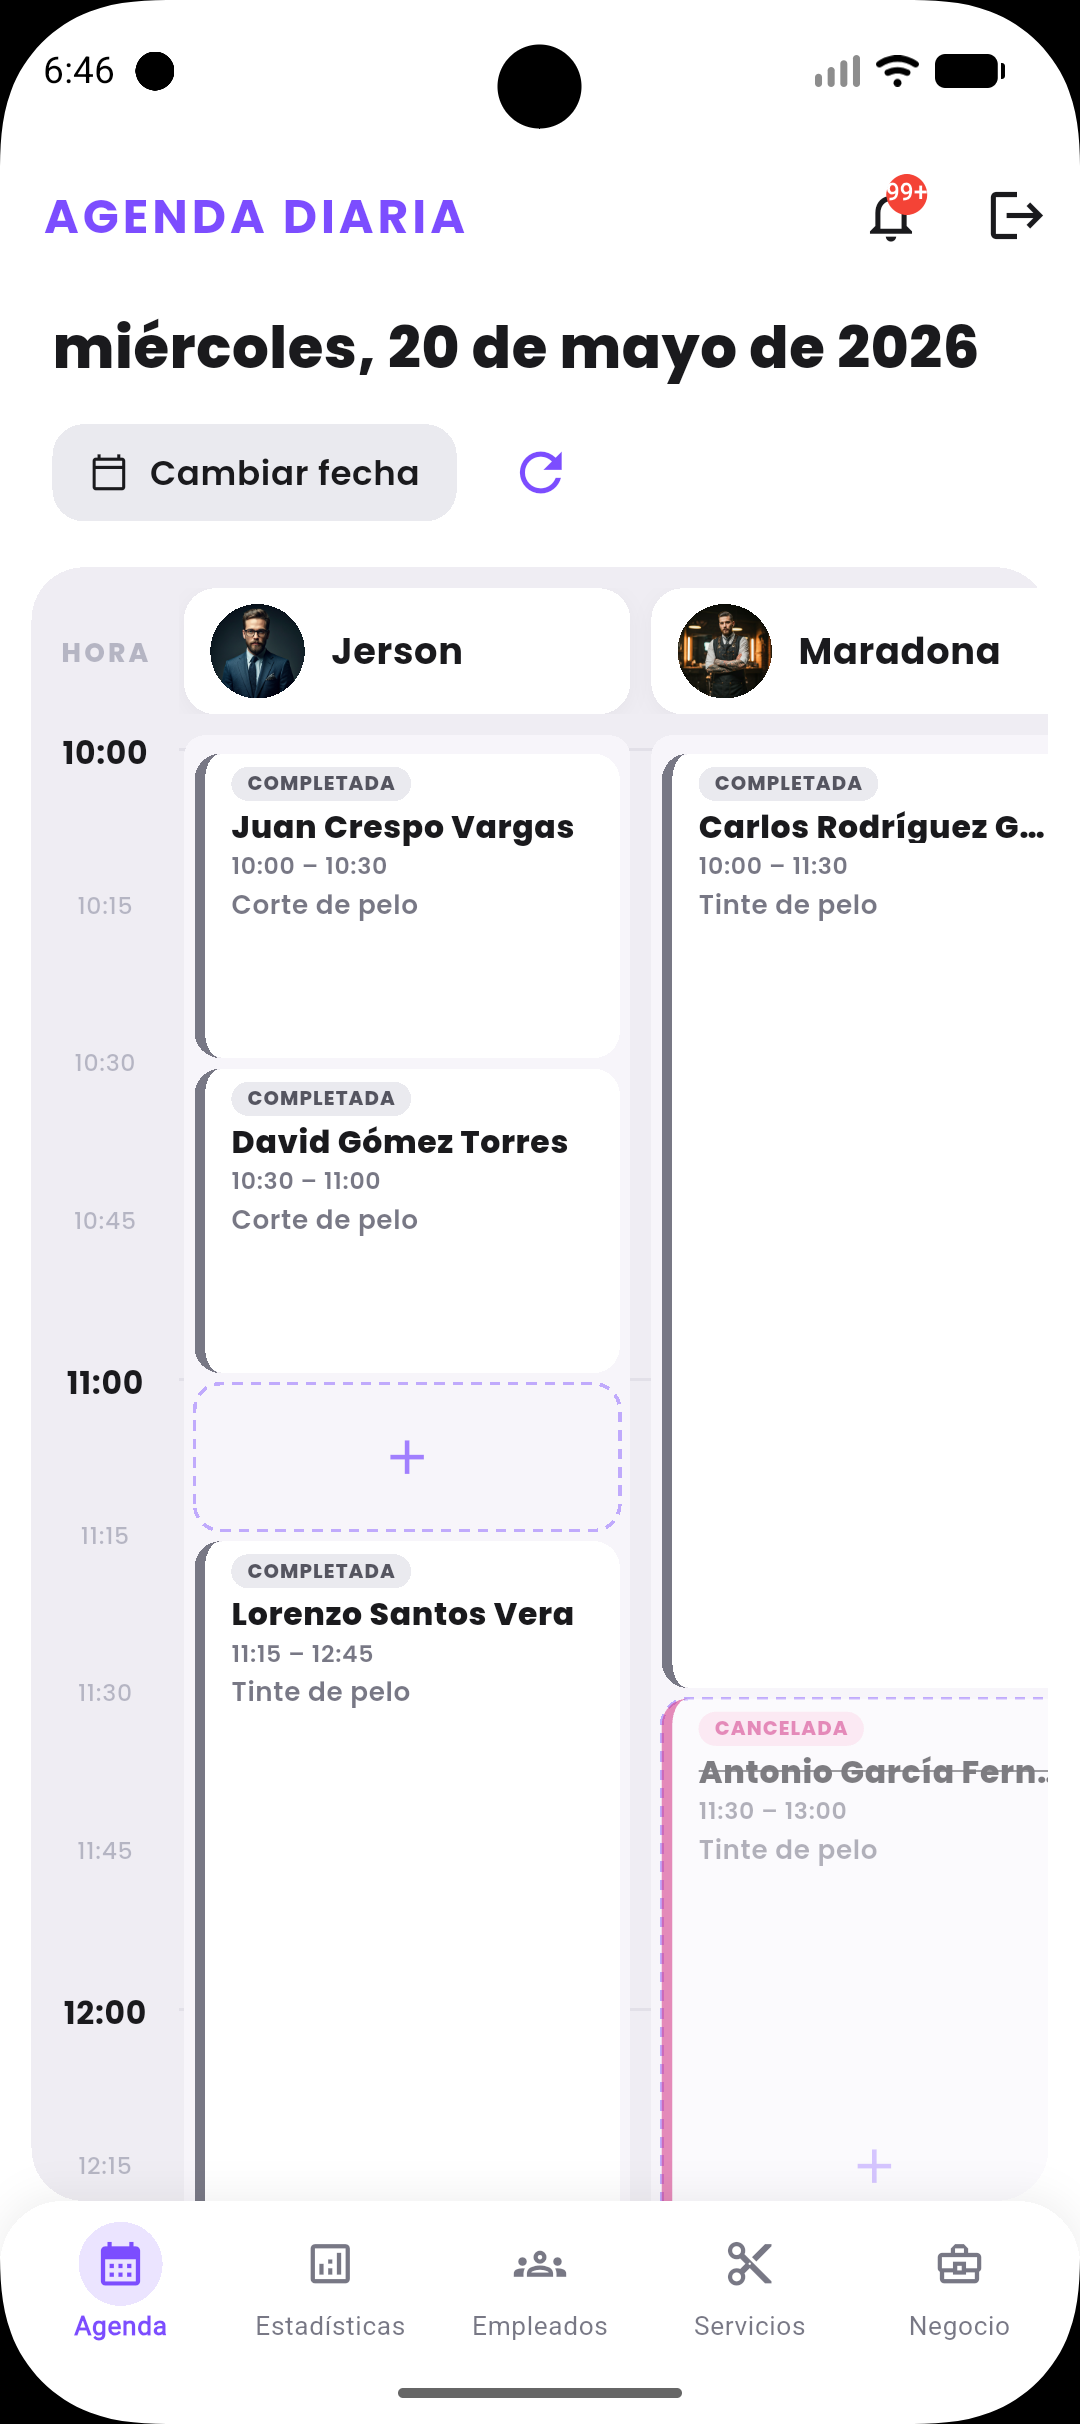
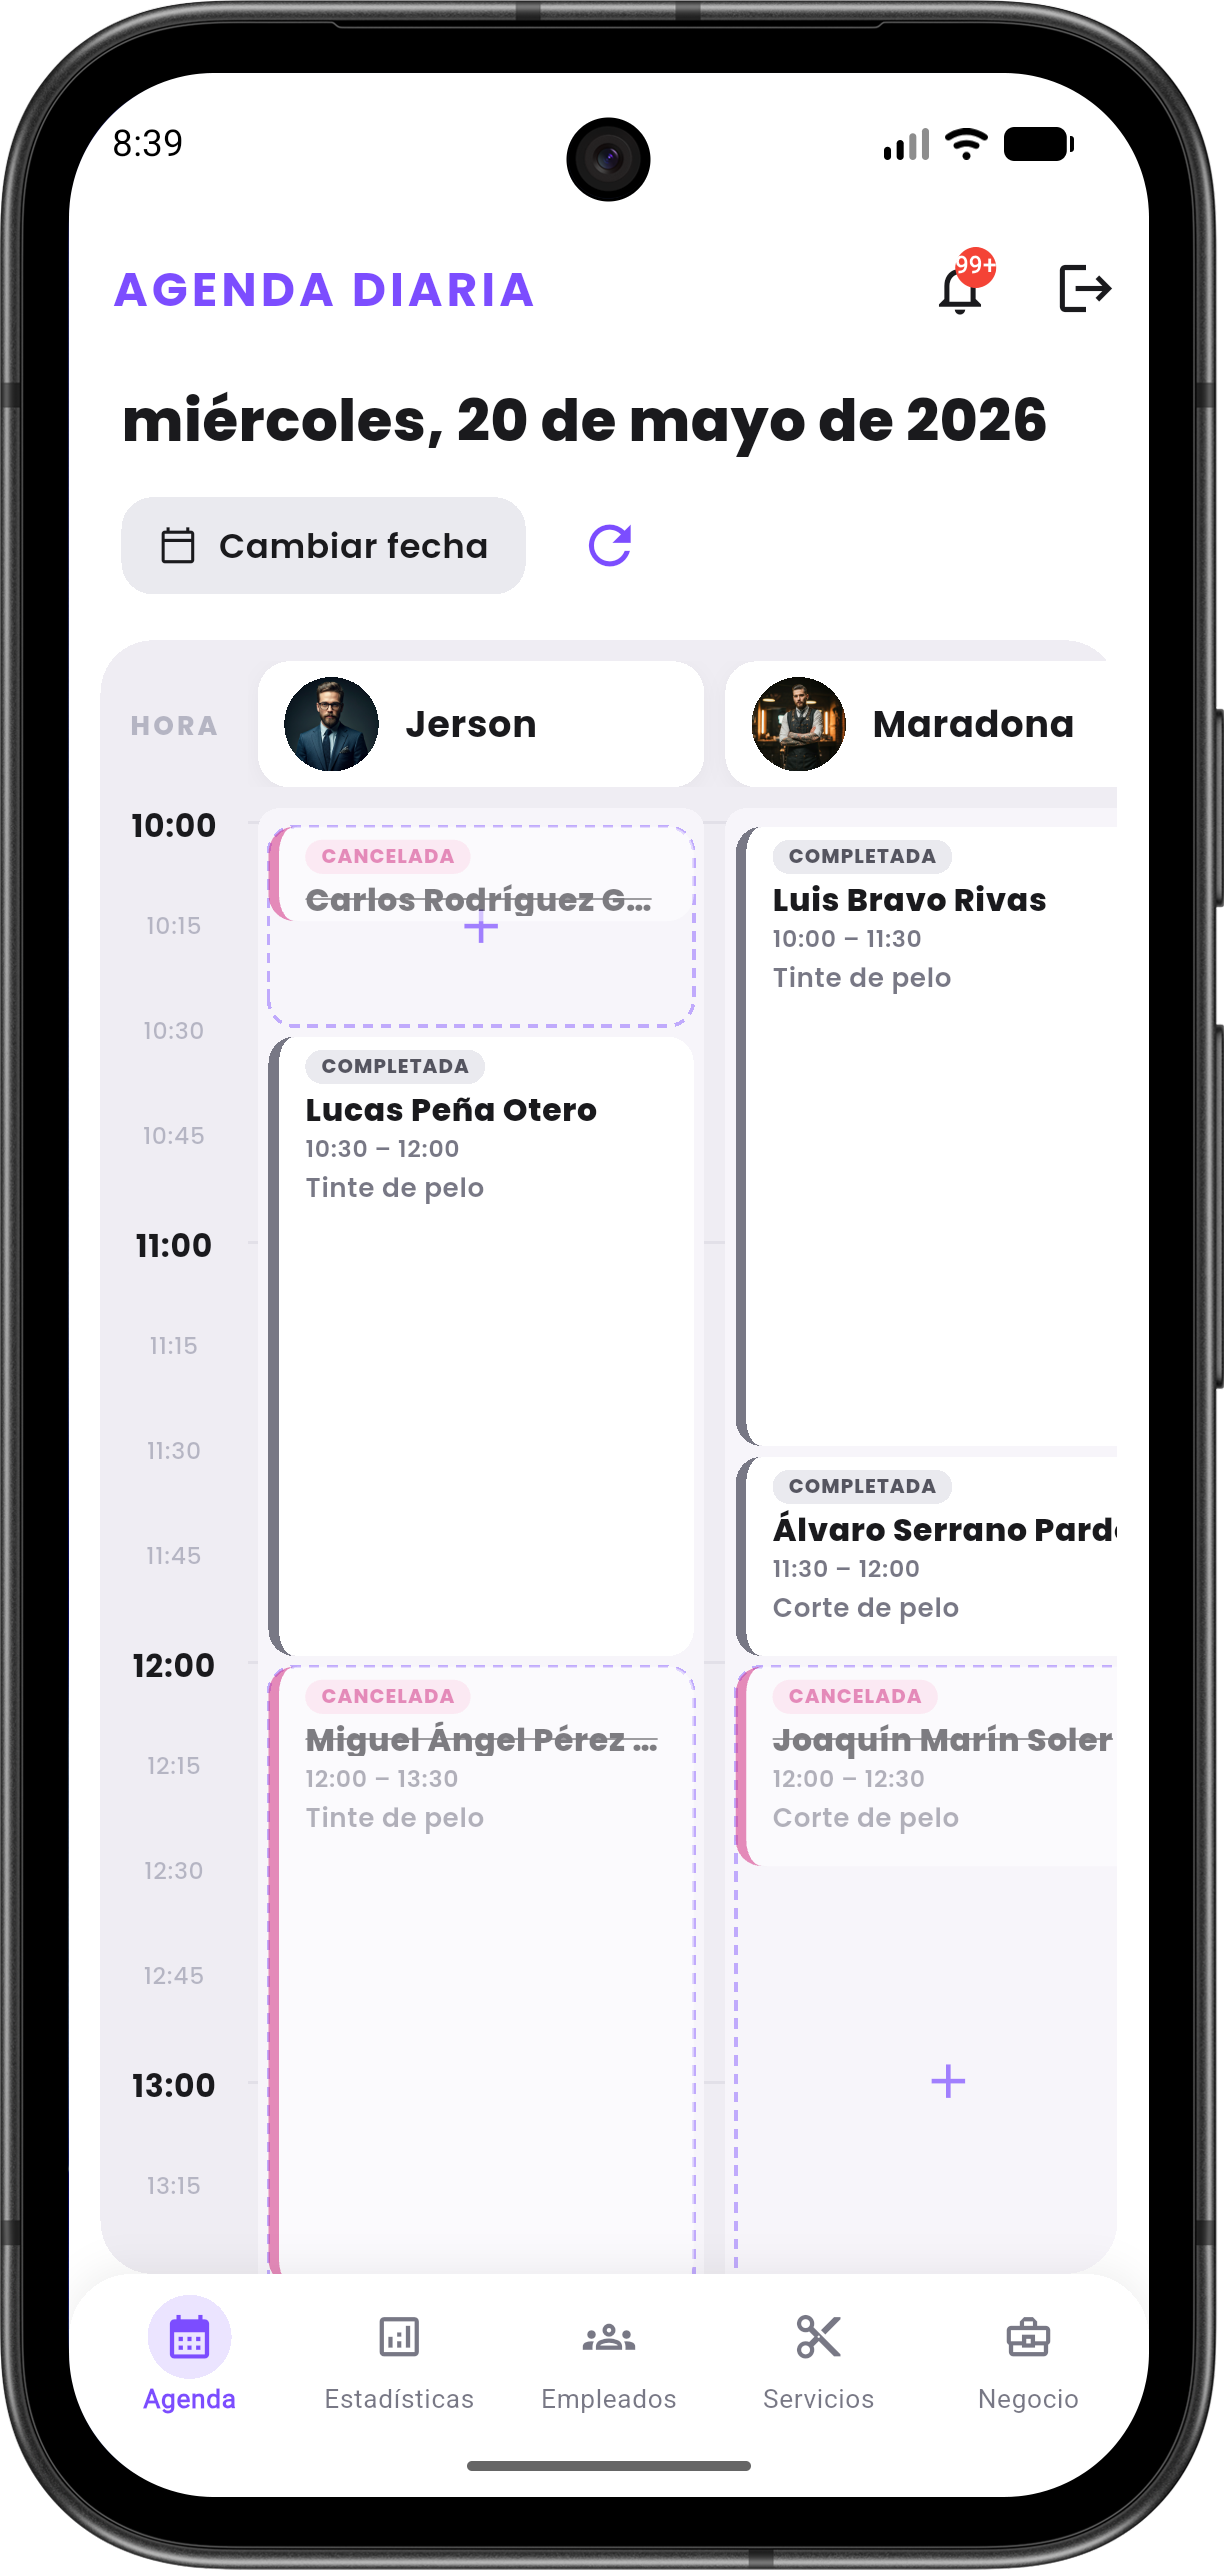
Actualización de la URL base de la API por defecto a producción (Railway).
- Se ha modificado el valor predeterminado de `API_BASE_URL` en `api_endpoints.dart` para que apunte al entorno de producción (`https://victorinostyle-production.up.railway.app/api/v1`).
- Se mantiene comentada la URL del emulador de Android para facilitar cambios rápidos a desarrollo local.

diff --git a/frontend_victorino/lib/core/api/api_endpoints.dart b/frontend_victorino/lib/core/api/api_endpoints.dart
@@ -14,7 +14,11 @@ class ApiEndpoints {
   // (compatible con Android Emulator que es el caso de uso por defecto).
   static const baseUrl = String.fromEnvironment(
     'API_BASE_URL',
-    defaultValue: 'http://10.0.2.2:8080/api/v1',
+    defaultValue: 'https://victorinostyle-production.up.railway.app/api/v1', // en producción
+
+    //defaultValue: 'http://10.0.2.2:8080/api/v1', // Android emulador
+
+
 
     // defaultValue: 'https://victorinostyle-production.up.railway.app/api/v1',
 
